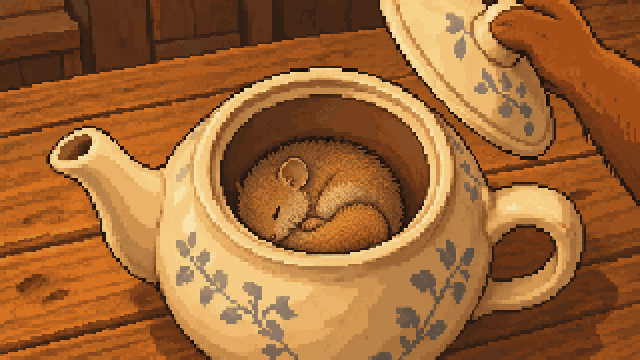
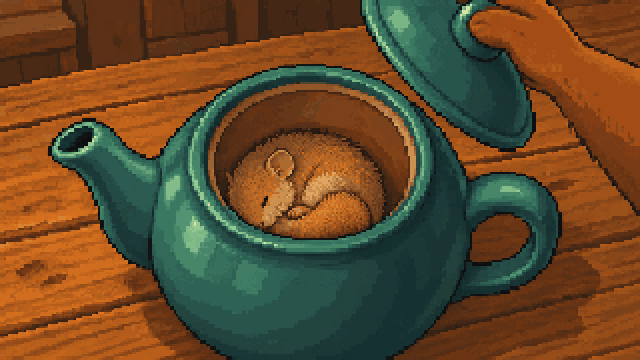
Preview ch1: connect Daram expression sprites by intensity and teal teapot cut
- surprised/worried/determined used only on lines whose feeling matches the drawing; big laugh reserved
- Mild smiles and thinking lines keep the neutral sprite
- P13 observation cut replaced with the teal teapot matching BG03
- Root public game untouched; only preview/ch1-gpt-20261008 changed

Claude-Session: https://claude.ai/code/session_01T49VRF9dewW4fTqd45Bdaz

diff --git a/preview/ch1-gpt-20261008/dev/inn_stage.js b/preview/ch1-gpt-20261008/dev/inn_stage.js
@@ -10,13 +10,17 @@
  function bgDef(){try{var b=window.__innBg&&window.__innBg();return b||{}}catch(e){return {}}}
  function cur(){try{return !!(G&&CASES[G.ci]&&CASES[G.ci].id==="inn")}catch(e){return false}}
  /* 그림 크기표: [캔버스 너비, 높이, 몸 왼쪽, 몸 오른쪽, 위 여백, 아래 여백] (PNG 실측) */
- var BOX={"art/ch1/cast/daram-front.png":[192,192,20,136,20,6],"art/ch1/cast/nabi-front.png":[192,192,24,138,10,6],"art/ch1/cast/bami-front.png":[192,192,43,143,9,6],"art/ch1/cast/bami-shock.png":[192,192,4,189,8,6],"art/ch1/cast/karo-front.png":[192,192,27,141,5,6],"art/ch1/cast/seryeon-normal-front-v1.png":[192,192,44,155,10,6],"art/ch1/cast/seryeon-surprise-front-v1.png":[192,192,44,156,10,6],
+ var BOX={"art/ch1/cast/daram-front.png":[192,192,20,136,20,6],"art/ch1/cast/nabi-front.png":[192,192,24,138,10,6],"art/ch1/cast/bami-front.png":[192,192,43,143,9,6],"art/ch1/cast/bami-shock.png":[192,192,4,189,8,6],"art/ch1/cast/karo-front.png":[192,192,27,141,5,6],"art/ch1/cast/daram-happy-front-v2.png":[192,192,21,141,21,6],"art/ch1/cast/daram-surprised-front-v2.png":[192,192,19,141,23,6],"art/ch1/cast/daram-worried-front-v2.png":[192,192,31,137,23,6],"art/ch1/cast/daram-determined-front-v2.png":[192,192,19,135,22,6],"art/ch1/cast/seryeon-normal-front-v1.png":[192,192,44,155,10,6],"art/ch1/cast/seryeon-surprise-front-v1.png":[192,192,44,156,10,6],
   "art/body/innma-0.png":[146,182,1,115,2,0],"art/body/innma-1.png":[148,182,2,115,4,0],"art/body/innma-2.png":[146,182,2,123,4,0],
   "art/body/wanggu-0.png":[230,182,22,165,3,0],"art/body/wanggu-1.png":[230,182,22,165,3,0],"art/body/wanggu-2.png":[230,182,2,192,1,0],"art/body/doto-0.png":[182,182,1,133,2,0],"art/body/doto-1.png":[180,182,1,129,2,0],"art/body/doto-2.png":[174,182,1,120,9,0],
   "art/body/buri-0.png":[136,182,2,113,3,0],"art/body/buri-1.png":[130,182,2,114,2,0],"art/body/buri-2.png":[110,182,2,101,6,0]};
  var CASTF={det1:"daram-front",nabi:"nabi-front",karo:"karo-front"},BODYK={innma:"innma",wanggu:"wanggu",doto:"doto",buri:"buri"};
  function pose(m){var e=(window.__MOOD_EXPR||{})[String(m||"").split(/\s+/)[0]]||"normal";return e==="fluster"?"2":e==="doubt"?"1":"0"}
- function src(k,m){if(CASTF[k])return "art/ch1/cast/"+CASTF[k]+".png";
+ /* 다람 표정: 그림의 감정 강도로 연결한다. 대본의 표정 표시 중 아래 넷만 새 그림을 쓰고, 나머지(가벼운 미소·생각 등)는 기본 그림.
+    shock=당황(손을 뺨에 댄 놀람), sad=걱정(손 모음·귀 처짐), laugh=큰 웃음(눈 감은 활짝 웃음, 그만큼 기쁜 대사만), resolve=결심 */
+ var DFACE={shock:"daram-surprised-front-v2",sad:"daram-worried-front-v2",laugh:"daram-happy-front-v2",resolve:"daram-determined-front-v2"};
+ function src(k,m){if(k==="det1"){var dm=String(m||"").split(/\s+/)[0];return "art/ch1/cast/"+(DFACE[dm]||"daram-front")+".png"}
+  if(CASTF[k])return "art/ch1/cast/"+CASTF[k]+".png";
   if(k==="geokkuri")return "art/ch1/cast/"+(pose(m)==="2"?"bami-shock":"bami-front")+".png";
   if(k==="seryeon")return "art/ch1/cast/"+(pose(m)==="2"?"seryeon-surprise-front-v1":"seryeon-normal-front-v1")+".png";
   if(BODYK[k])return "art/body/"+BODYK[k]+"-"+pose(m)+".png";return null}

diff --git a/preview/ch1-gpt-20261008/dev/pro_new.js b/preview/ch1-gpt-20261008/dev/pro_new.js
@@ -86,7 +86,7 @@
    D({who:"none",sfx:"steps",ms:500}),
    L("det1","아빠. 헷갈린 건 할머니야, 나야?"),L("det0","네가 맞게 셌어. 아빠도 열셋이었어."),
    L("det1","그런데 왜 창고라고 하셨을까."),L("det0","손님한테 보여 주고 싶지 않은 방일 수도 있지. 우리가 따질 일은 아니야."),
-   L("det1","응. 그래도 열셋."),I("숫자 하나에 웃으며 문까지 닫으실 일인가. …마음 한쪽에 접어 두자.")],"title")),
+   L("det1","응. 그래도 열셋.","resolve"),I("숫자 하나에 웃으며 문까지 닫으실 일인가. …마음 한쪽에 접어 두자.")],"title")),
   /* P6 식당: 밤이 */
   B(null,"geokkuri",S("dining","여관 식당","첫날 저녁",[I("따뜻한 수프. 오늘 처음 제대로 앉아 보는 의자다. 다람이 볼에 겨우 혈색이 돈다."),
    L("det1","아빠, 이 수프 맛있어. 감자가 커."),L("det0","천천히 먹어. 데겠다."),
@@ -165,7 +165,7 @@
    L("wanggu","현장의 물건을 옮기지만 않는다면요. 기록은 제가 합니다."),
    D({who:"none",sfx:"steps",ms:500}),
    I("…다람이가 안 보인다. 방금까지 옆에 있었는데."),D({sfx:"steps",ms:450}),
-   L("det1","아빠.","shock"),
+   L("det1","아빠.","sad"),
    I("뒤 계단에서 올라온 다람이가 내 소매를 붙잡는다. 숨이 차 있다."),
    L("det1","아빠. 부엌에… 누가 있어."),L("det0","응, 듣고 있어. 천천히. 누가 있어?"),
    L("det1","빵이 있나 보려고 내려갔는데… 할머니한테 차라도 드리려고 찻주전자를 열었는데.","sad"),

diff --git a/preview/ch1-gpt-20261008/dev/script_a.js b/preview/ch1-gpt-20261008/dev/script_a.js
@@ -45,7 +45,7 @@
    spots:[
     {id:"bag",name:"돈주머니",ev:"C01",say:[L("det1","아빠, 이게 아까 베개 밑에서 나온 주머니지?"),L("det0","응. 세련 씨가 잃어버렸다는 주머니야. 열지는 말고, 겉에 보이는 것만 보자."),
      L("@inspect","C01a"),
-     L("det1","앗, 손에 빨간 게 묻었어. 아직 안 말랐나 봐.","shock"),L("det0","도장을 찍은 지 얼마 안 됐다는 거네. 손은 이따 씻자."),
+     L("det1","앗, 손에 빨간 게 묻었어. 아직 안 말랐나 봐."),L("det0","도장을 찍은 지 얼마 안 됐다는 거네. 손은 이따 씻자."),
      L("det0","봉인띠 밑에 종이가 접혀 끼워져 있네. 펼쳐 볼게."),L("@inspect","C01b"),
      L("det1","할머니 이름 칸은 비어 있어. 세련 아저씨 이름 끝에는 별이 있고."),L("det0","할머니는 서명하지 않았다는 거지. 뒷면 조항도 기억해 두자."),
      L("det1","…'허가를 잃는 날'. 아까 너울 아저씨가 한 말이랑 같아.","think")]},
